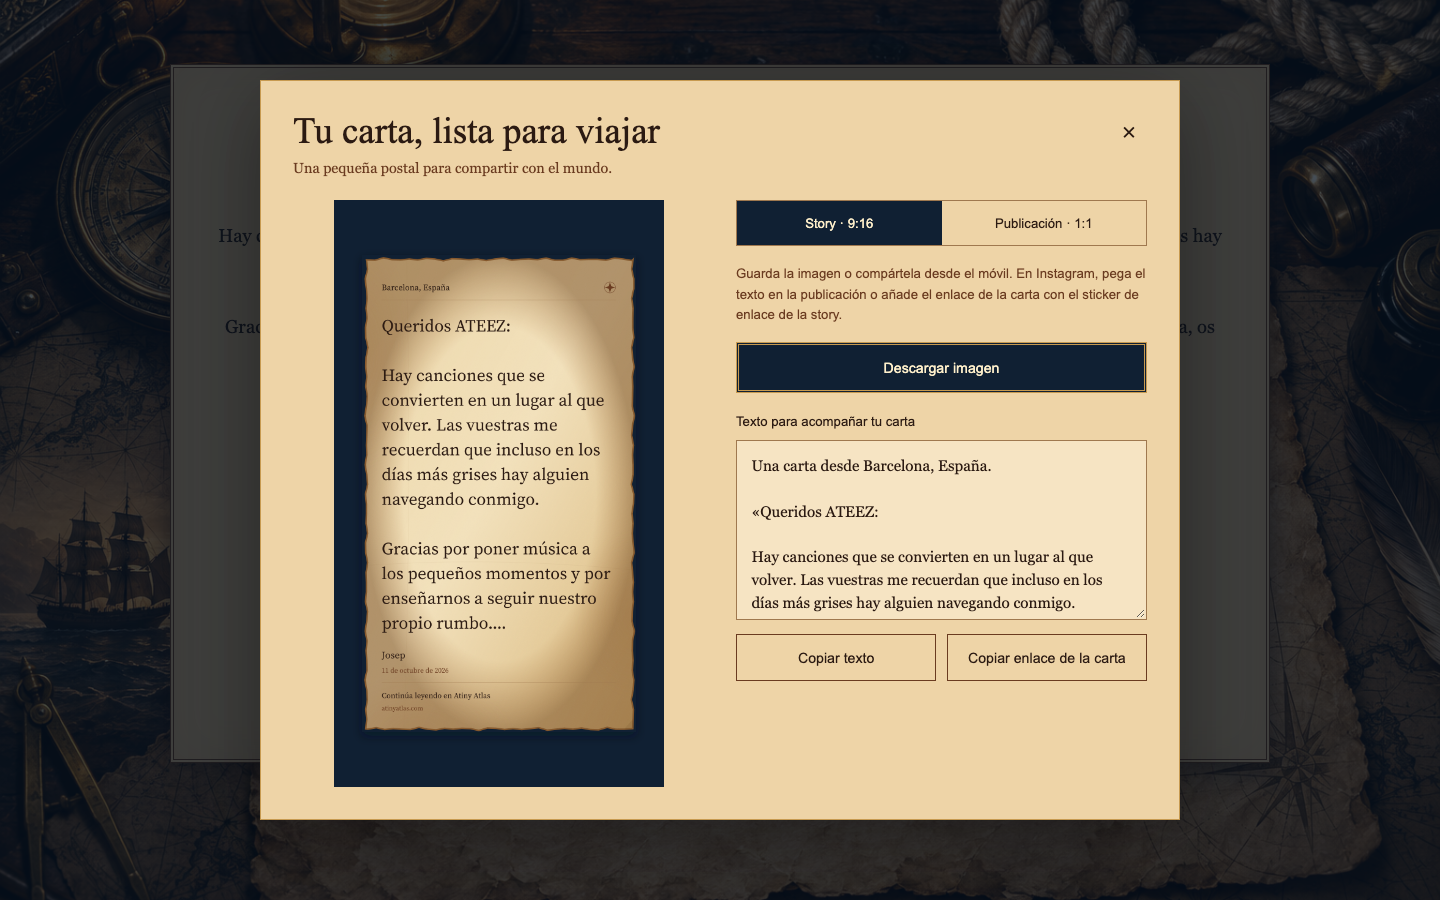
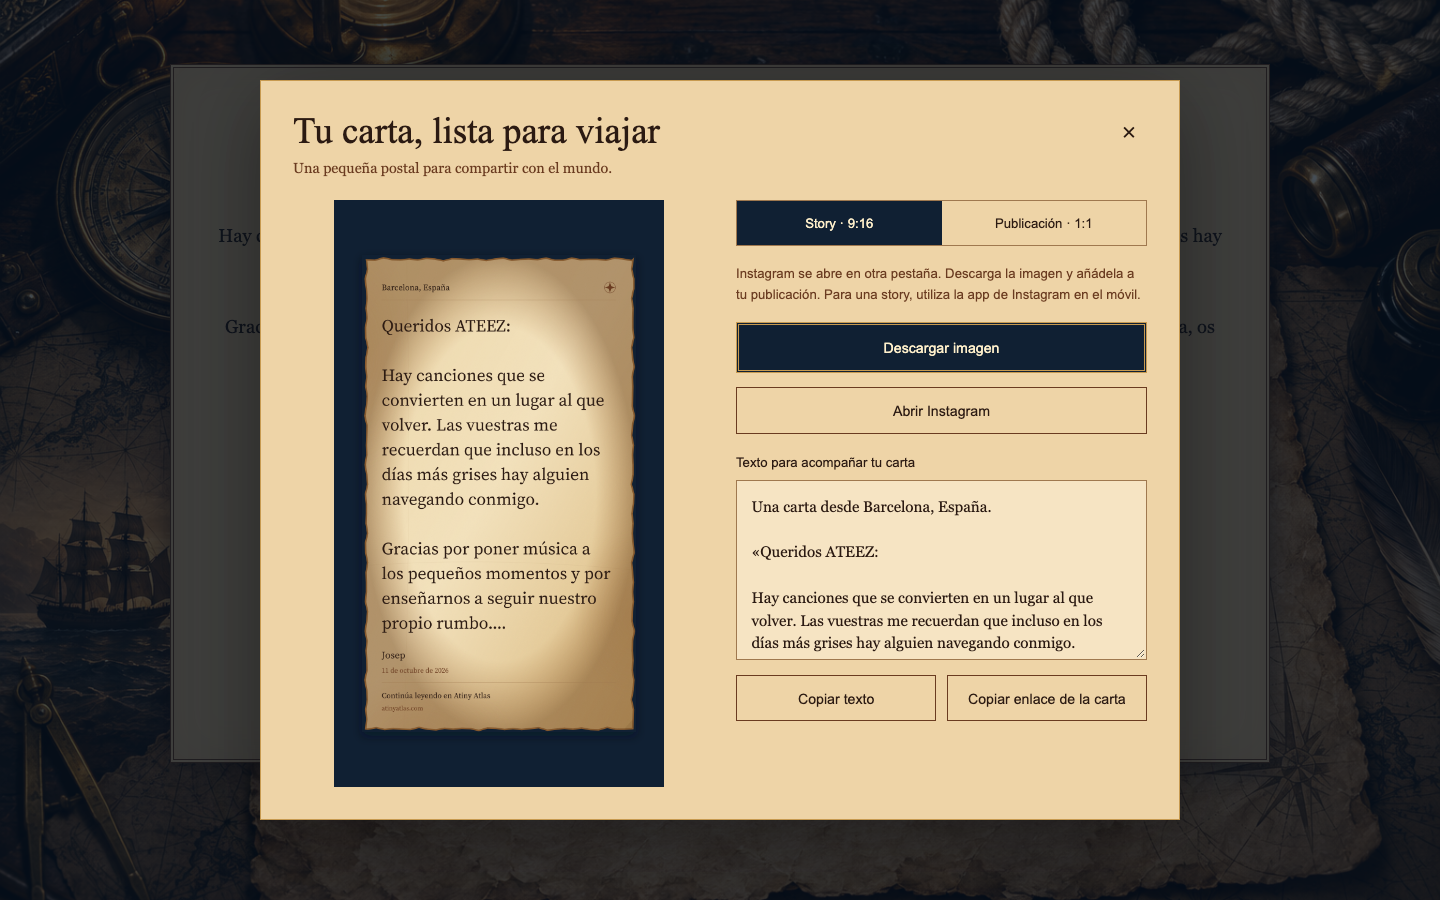
fix(share): open social networks directly on desktop

Changed region(s): [[0.5, 0.28, 0.8125, 0.8089]]

diff --git a/src/components/messages/letter-share.tsx b/src/components/messages/letter-share.tsx
@@ -6,6 +6,7 @@ import { Button, Dialog, DialogTrigger, Heading, Popover } from 'react-aria-comp
 import type { ShareLetter } from '@/domain/messages/letter-share'
 import { prepareLetterShare, type SocialDestination } from '@/domain/messages/letter-share'
 import { copyShareValue, LetterShareFeedback, wasShareCancelled, type ShareFeedback } from './letter-share-feedback'
+import { isMobileShareDevice, supportsMobileFileSharing } from './letter-share-device'
 import { useLetterShareFiles, type LetterImageFormat } from './use-letter-share-files'
 import { LetterShareImageDialog } from './letter-share-image-dialog'
 
@@ -18,10 +19,7 @@ const socials: {id:SocialDestination; label:string; mark:string}[] = [
 const subscribe = () => () => {}
 const nativeSupported = () => typeof navigator.share === 'function'
 const serverSupported = () => false
-const nativeFilesSupported = () => {
-  try { return typeof navigator.share === 'function' && Boolean(navigator.canShare?.({files:[new File([''], 'letter.png', {type:'image/png'})]})) }
-  catch { return false }
-}
+
 
 export function LetterShare({message, origin}: {message:ShareLetter; origin:string}) {
   const t = useTranslations('Forms.share')
@@ -33,7 +31,8 @@ export function LetterShare({message, origin}: {message:ShareLetter; origin:stri
   const [feedback, setFeedback] = useState<ShareFeedback>(null)
   const trigger = useRef<HTMLButtonElement>(null)
   const canShare = useSyncExternalStore(subscribe, nativeSupported, serverSupported)
-  const canShareFiles = useSyncExternalStore(subscribe, nativeFilesSupported, serverSupported)
+  const mobileDevice = useSyncExternalStore(subscribe, isMobileShareDevice, serverSupported)
+  const canShareFiles = useSyncExternalStore(subscribe, supportsMobileFileSharing, serverSupported)
   const {files, loading} = useLetterShareFiles(message.publicId, locale, open && canShareFiles, generation)
   const share = prepareLetterShare(message, locale, origin)
   const copy = (value:string) => copyShareValue(value, t('copied'), t('copyFallback'), setFeedback)
@@ -77,8 +76,13 @@ export function LetterShare({message, origin}: {message:ShareLetter; origin:stri
             {socials.map(social => canShareFiles && (social.id === 'x' || social.id === 'threads') && (files.square || loading)
               ? <Button key={social.id} isDisabled={(!files.square && loading) || sending} onPress={() => {void sendImage('square', social.id as 'x' | 'threads')}}><span className="letter-share-social-mark" aria-hidden="true">{social.mark}</span><span>{social.label}</span></Button>
               : <a key={social.id} href={share.destinations[social.id]} target="_blank" rel="noopener noreferrer" onClick={() => setOpen(false)}><span className="letter-share-social-mark" aria-hidden="true">{social.mark}</span><span>{social.label}</span></a>)}
-            <Button isDisabled={(!files.story && loading) || sending} onPress={() => instagram('story')}><span className="letter-share-social-mark" aria-hidden="true"><svg width="20" height="20" viewBox="0 0 24 24" fill="none" stroke="currentColor" strokeWidth="1.5"><rect x="3" y="3" width="18" height="18" rx="5"/><circle cx="12" cy="12" r="4"/><circle cx="17.5" cy="6.5" r=".8" fill="currentColor"/></svg></span><span>{t('instagramStory')}</span></Button>
-            <Button isDisabled={(!files.square && loading) || sending} onPress={() => instagram('square')}><span className="letter-share-social-mark" aria-hidden="true"><svg width="20" height="20" viewBox="0 0 24 24" fill="none" stroke="currentColor" strokeWidth="1.5"><rect x="3" y="3" width="18" height="18" rx="2"/><circle cx="8" cy="8" r="1.5"/><path d="m3 17 6-5 4 3 4-6 4 4"/></svg></span><span>{t('instagramPost')}</span></Button>
+            {(['story', 'square'] as const).map(format => {
+              const label = t(format === 'story' ? 'instagramStory' : 'instagramPost')
+              const content = <><span className="letter-share-social-mark" aria-hidden="true"><svg width="20" height="20" viewBox="0 0 24 24" fill="none" stroke="currentColor" strokeWidth="1.5"><rect x="3" y="3" width="18" height="18" rx={format === 'story' ? 5 : 2}/><circle cx="12" cy="12" r="4"/></svg></span><span>{label}</span></>
+              return mobileDevice
+                ? <Button key={format} isDisabled={(!files[format] && loading) || sending} onPress={() => instagram(format)}>{content}</Button>
+                : <a key={format} href="https://www.instagram.com/" target="_blank" rel="noopener noreferrer" onClick={() => {setOpen(false); setImageFormat(format)}}>{content}</a>
+            })}
           </div>
           <div className="letter-share-menu-actions">
             <Button onPress={() => {void copy(share.url)}}>{t('copyLetter')}</Button>

diff --git a/tests/visual/letter-share.spec.ts b/tests/visual/letter-share.spec.ts
@@ -3,6 +3,7 @@ import {expect, test} from '@playwright/test'
 for (const width of [1440, 390]) {
   test(`own letter sharing, preview and download at ${width}px`, async ({page}) => {
     await page.setViewportSize({width, height:900})
+    await page.context().route('https://www.instagram.com/**', route => route.fulfill({body:'Instagram'}))
     await page.goto('/?variant=share')
     const trigger = page.getByRole('button', {name:'Compartir', exact:true})
     await trigger.click()
@@ -17,7 +18,11 @@ for (const width of [1440, 390]) {
     await page.keyboard.press('Escape')
     await expect(trigger).toBeFocused()
     await trigger.click()
-    await page.getByRole('button', {name:'Instagram · Story'}).click()
+    const instagramTab = page.waitForEvent('popup')
+    await page.getByRole('link', {name:'Instagram · Story'}).click()
+    const instagramPage = await instagramTab
+    await expect(instagramPage).toHaveURL('https://www.instagram.com/')
+    await instagramPage.close()
     const dialog = page.getByRole('dialog', {name:'Tu carta, lista para viajar'})
     await expect(dialog).toBeVisible()
     const image = dialog.getByRole('img')
@@ -49,14 +54,46 @@ for (const width of [1440, 390]) {
 
 test('sharing from the list keeps both Instagram destinations and hides removed options', async ({page}) => {
   await page.setViewportSize({width:390, height:900})
+  await page.context().route('https://www.instagram.com/**', route => route.fulfill({body:'Instagram'}))
   await page.goto('/?variant=share-list')
   await page.getByRole('button', {name:'Compartir', exact:true}).click()
   await expect(page.getByRole('dialog', {name:'Comparte tu carta'})).toBeVisible()
   await expect(page.getByRole('link', {name:'LinkedIn'})).toHaveCount(0)
   await expect(page.getByRole('button', {name:'Copiar enlace de Atiny Atlas'})).toHaveCount(0)
   await page.screenshot({path:test.info().outputPath('share-list-mobile.png')})
-  await page.getByRole('button', {name:'Instagram · Publicación'}).click()
+  const opened = page.waitForEvent('popup')
+  await page.getByRole('link', {name:'Instagram · Publicación'}).click()
+  const instagramPage = await opened
+  await expect(instagramPage).toHaveURL('https://www.instagram.com/')
+  await instagramPage.close()
   const image = page.getByRole('img')
   await expect(image).toBeVisible()
   await expect.poll(() => image.evaluate((img:HTMLImageElement) => img.naturalHeight)).toBe(1080)
+})
+
+
+test('desktop opens each network in a new tab even with native share APIs', async ({page}) => {
+  await page.addInitScript(() => {
+    Object.defineProperty(navigator, 'canShare', {value:() => true, configurable:true})
+    Object.defineProperty(navigator, 'share', {value:async () => {throw new Error('desktop must use the network link')}, configurable:true})
+  })
+  for (const pattern of ['https://twitter.com/**','https://www.threads.com/**','https://www.instagram.com/**']) {
+    await page.context().route(pattern, route => route.fulfill({body:'External network'}))
+  }
+  for (const [label, host, path] of [['X / Twitter','twitter.com','/intent/tweet'], ['Threads','www.threads.com','/intent/post'], ['Instagram · Story','www.instagram.com','/'], ['Instagram · Publicación','www.instagram.com','/']] as const) {
+    await page.goto('/?variant=share')
+    await page.getByRole('button', {name:'Compartir', exact:true}).click()
+    const popupPromise = page.waitForEvent('popup')
+    await page.getByRole('link', {name:label, exact:true}).click()
+    const popup = await popupPromise
+    await popup.waitForLoadState('domcontentloaded')
+    const url = new URL(popup.url())
+    expect(url.hostname).toBe(host)
+    expect(url.pathname).toBe(path)
+    if (host !== 'www.instagram.com') {
+      expect(url.searchParams.get('text')).toContain('Lee mi carta completa')
+      expect(url.searchParams.get('url')).toContain('/messages/')
+    }
+    await popup.close()
+  }
 })

diff --git a/tests/unit/components/messages/letter-share.test.tsx b/tests/unit/components/messages/letter-share.test.tsx
@@ -9,8 +9,10 @@ const message = {
 }
 const clipboard = vi.fn()
 beforeEach(() => {
+  vi.spyOn(navigator, 'userAgent', 'get').mockReturnValue('Mozilla/5.0 (iPhone; CPU iPhone OS 18_0 like Mac OS X)')
   vi.stubGlobal('fetch', vi.fn(async () => new Response(new Blob(['png'], {type:'image/png'}))))
   Object.defineProperty(navigator, 'clipboard', {configurable:true, value:{writeText:clipboard.mockResolvedValue(undefined)}})
+  Object.defineProperty(navigator, 'userAgentData', {configurable:true, value:undefined})
   Object.defineProperty(navigator, 'share', {configurable:true, value:undefined})
   Object.defineProperty(navigator, 'canShare', {configurable:true, value:undefined})
   vi.stubGlobal('URL', Object.assign(URL, {createObjectURL:vi.fn(() => 'blob:test-letter'), revokeObjectURL:vi.fn()}))
@@ -112,4 +114,32 @@ it('falls back to text links and explains a failed native image preparation', as
   expect(await screen.findByText('Some images could not be prepared. Share the link or retry from the image preview.')).toBeVisible()
   expect(screen.getByRole('link', {name:'X / Twitter'})).toHaveAttribute('href', expect.stringContaining('intent/tweet'))
   expect(screen.getByRole('button', {name:'Instagram story'})).toBeEnabled()
+})
+
+
+it.each(['Mozilla/5.0 (Macintosh; Intel Mac OS X 15_0)', 'Mozilla/5.0 (Windows NT 10.0; Win64; x64)'])('keeps desktop composers even when native file sharing exists: %s', async userAgent => {
+  vi.mocked(Object.getOwnPropertyDescriptor(navigator, 'userAgent')!.get!).mockReturnValue(userAgent)
+  Object.defineProperty(navigator, 'share', {configurable:true, value:vi.fn()})
+  Object.defineProperty(navigator, 'canShare', {configurable:true, value:() => true})
+  await open()
+  expect(screen.getByRole('link', {name:'X / Twitter'})).toHaveAttribute('href', expect.stringContaining('intent/tweet'))
+  expect(screen.getByRole('link', {name:'Threads'})).toHaveAttribute('href', expect.stringContaining('intent/post'))
+  for (const name of ['Instagram story', 'Instagram post']) {
+    const link = screen.getByRole('link', {name})
+    expect(link).toHaveAttribute('href', 'https://www.instagram.com/')
+    expect(link).toHaveAttribute('target', '_blank')
+  }
+  expect(fetch).not.toHaveBeenCalled()
+})
+
+it('keeps native PNG sharing on Android tablets whose mobile hint is false', async () => {
+  vi.mocked(Object.getOwnPropertyDescriptor(navigator, 'userAgent')!.get!).mockReturnValue('Mozilla/5.0 (Linux; Android 14; Tablet)')
+  Object.defineProperty(navigator, 'userAgentData', {configurable:true, value:{mobile:false, platform:'Android'}})
+  Object.defineProperty(navigator, 'share', {configurable:true, value:vi.fn().mockResolvedValue(undefined)})
+  Object.defineProperty(navigator, 'canShare', {configurable:true, value:() => true})
+  await open()
+  const action = screen.getByRole('button', {name:'Threads'})
+  await waitFor(() => expect(action).toBeEnabled())
+  fireEvent.click(action)
+  await waitFor(() => expect(navigator.share).toHaveBeenCalledWith(expect.objectContaining({files:[expect.any(File)]})))
 })

diff --git a/src/components/messages/letter-share-image-dialog.tsx b/src/components/messages/letter-share-image-dialog.tsx
@@ -1,16 +1,21 @@
 'use client'
 
-import { useEffect, useState } from 'react'
+import { useEffect, useState, useSyncExternalStore } from 'react'
 import Image from 'next/image'
 import { useLocale, useTranslations } from 'next-intl'
 import { Button, Dialog, Heading, Modal, ModalOverlay } from 'react-aria-components'
 import type { ShareLetter } from '@/domain/messages/letter-share'
 import { prepareLetterShare } from '@/domain/messages/letter-share'
+import { isMobileShareDevice } from './letter-share-device'
 import { copyShareValue, LetterShareFeedback, wasShareCancelled, type ShareFeedback } from './letter-share-feedback'
+
+const subscribe = () => () => {}
+const serverMobile = () => false
 
 export function LetterShareImageDialog({message, origin, onClose, initialFormat = 'story'}: {message:ShareLetter; origin:string; onClose:() => void; initialFormat?:'story' | 'square'}) {
   const t = useTranslations('Forms.share')
   const locale = useLocale()
+  const mobileDevice = useSyncExternalStore(subscribe, isMobileShareDevice, serverMobile)
   const [format, setFormat] = useState<'story' | 'square'>(initialFormat)
   const [attempt, setAttempt] = useState(0)
   const [resource, setResource] = useState<{key:string; url:string; file:File} | null>(null)
@@ -69,8 +74,9 @@ export function LetterShareImageDialog({message, origin, onClose, initialFormat 
               <Button aria-pressed={format === 'story'} onPress={() => setFormat('story')}>{t('story')}</Button>
               <Button aria-pressed={format === 'square'} onPress={() => setFormat('square')}>{t('square')}</Button>
             </div>
-            <p className="letter-share-image-hint">{t('instagramHint')}</p>
+            <p className="letter-share-image-hint">{t(mobileDevice ? 'instagramHint' : 'instagramDesktopHint')}</p>
             {ready ? <a className="letter-share-primary" href={ready.url} download={ready.file.name}>{t('download')}</a> : <Button className="letter-share-primary" isDisabled>{t('download')}</Button>}
+            <a className="letter-share-secondary" href="https://www.instagram.com/" target="_blank" rel="noopener noreferrer">{t('openInstagram')}</a>
             {canShareFile ? <Button className="letter-share-secondary" isDisabled={sharing} onPress={() => {void shareImage()}}>{t('shareImage')}</Button> : null}
             <label className="letter-share-caption">{t('preparedText')}<textarea readOnly value={share.text} onFocus={event => event.currentTarget.select()} /></label>
             <div className="letter-share-copy-actions">

diff --git a/src/components/messages/letter-share-device.ts b/src/components/messages/letter-share-device.ts
@@ -1,0 +1,14 @@
+/** Native app selection is a mobile flow; desktop share support alone does not select a network. */
+export function isMobileShareDevice(): boolean {
+  if (typeof navigator === 'undefined') return false
+  const agentData = (navigator as Navigator & {userAgentData?:{mobile:boolean; platform?:string}}).userAgentData
+  if (agentData?.mobile || agentData?.platform === 'Android') return true
+  return /Android|iPhone|iPad|iPod/i.test(navigator.userAgent) ||
+    (navigator.platform === 'MacIntel' && navigator.maxTouchPoints > 1)
+}
+export function supportsMobileFileSharing(): boolean {
+  if (!isMobileShareDevice()) return false
+  try {
+    return typeof navigator.share === 'function' && Boolean(navigator.canShare?.({files:[new File([''], 'letter.png', {type:'image/png'})]}))
+  } catch { return false }
+}

diff --git a/docs/superpowers/specs/2026-10-11-share-own-letters-design.md b/docs/superpowers/specs/2026-10-11-share-own-letters-design.md
@@ -99,3 +99,12 @@ En navegadores que admiten compartir archivos, abrir el menú prepara los PNG st
 El menú nativo determina las aplicaciones disponibles y permite elegir Instagram y el destino story o publicación; una web no puede seleccionar ese destino por el usuario. En escritorio o sin soporte de archivos, Instagram abre la vista previa en el formato elegido y conserva descarga/copia. X y Threads abren su compositor web con texto y enlace, cuya imagen de vista previa usa el nuevo pergamino: dichos enlaces no adjuntan directamente un PNG.
 
 El fallo de generación permite usar los compositores web y reintentar mediante la vista previa. Cancelar el menú nativo no es un error ni provoca un segundo lanzamiento. Cada apertura prepara una nueva generación; cerrar aborta las solicitudes pendientes. La imagen pública sigue usando solo la lectura pública y la exportación sigue comprobando autoría y visibilidad.
+
+
+## Corrección de escritorio del 14 de octubre de 2026
+
+La existencia de `navigator.share` no decide el destino: algunos ordenadores también ofrecen esa API. Las acciones de X/Threads usan siempre enlaces a sus compositores en escritorio. Las dos acciones de Instagram abren su web en otra pestaña y conservan la vista previa del PNG con el formato elegido, descarga y enlace «Abrir Instagram». Se indica que la imagen se añade manualmente al publicar.
+
+El envío automático al menú nativo queda para móviles y tablets compatibles; se distingue el dispositivo antes de comprobar soporte de archivos. Los client hints con `mobile: false` no excluyen tablets Android. «Más opciones» y el envío explícito de una imagen desde la vista previa pueden seguir usando el menú del sistema en un ordenador.
+
+Pruebas de regresión verifican Mac/Windows con API nativa disponible, tablets Android, y aperturas reales de pestañas para las redes sin publicar contenido externo.

diff --git a/docs/previews/share-own-letters/README.md b/docs/previews/share-own-letters/README.md
@@ -27,3 +27,5 @@ Se ha revisado el diff de forma independiente y corregido el cómputo de enlaces
 Probar los compositores externos con cuentas reales y compartir archivos en iOS/Android con Instagram instalado. El entorno local permite verificar los parámetros, las APIs del navegador y el recorrido de descarga, pero no la recepción por aplicaciones móviles físicas. Instagram no recibe una publicación automática: el enlace de una story se añade con su sticker de enlace.
 
 La postal utiliza pergamino con borde irregular, textura de fibras y desgaste en los márgenes. El navegador no puede elegir por el usuario la aplicación nativa ni forzar el editor de Stories o el feed de Instagram; el formato preparado se entrega al menú del móvil.
+
+En ordenador, X y Threads abren siempre su compositor en otra pestaña. Las dos opciones de Instagram abren su web y dejan preparado el PNG en la vista previa, con descarga y un enlace para volver a Instagram. Tener un menú nativo de compartir en el ordenador no sustituye estos enlaces por red.
